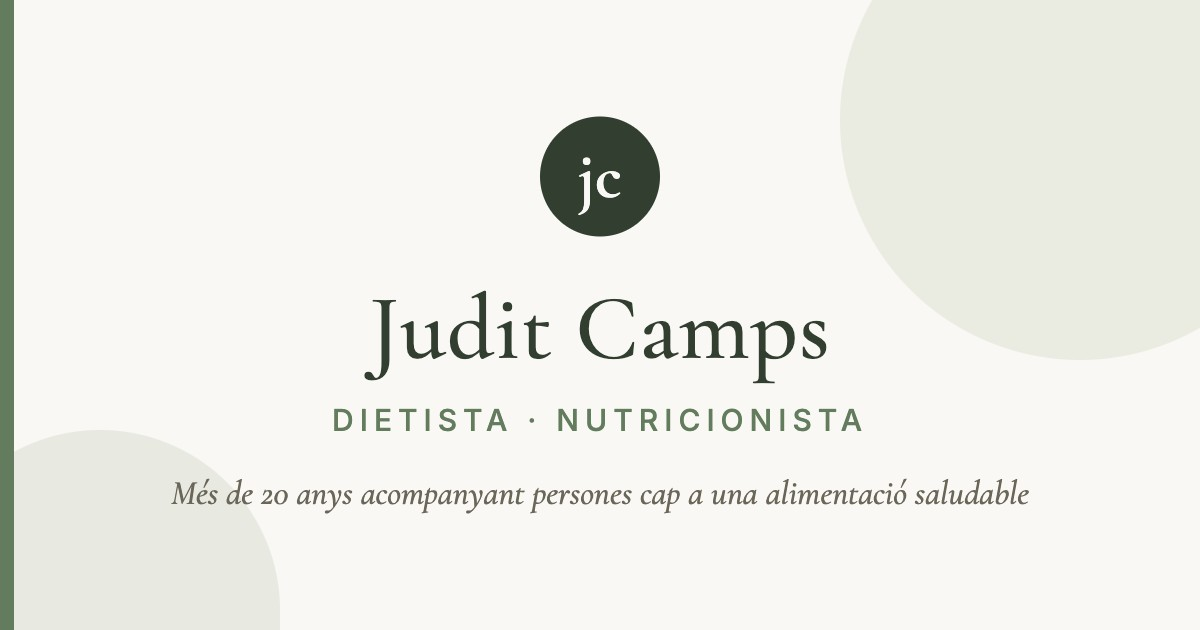
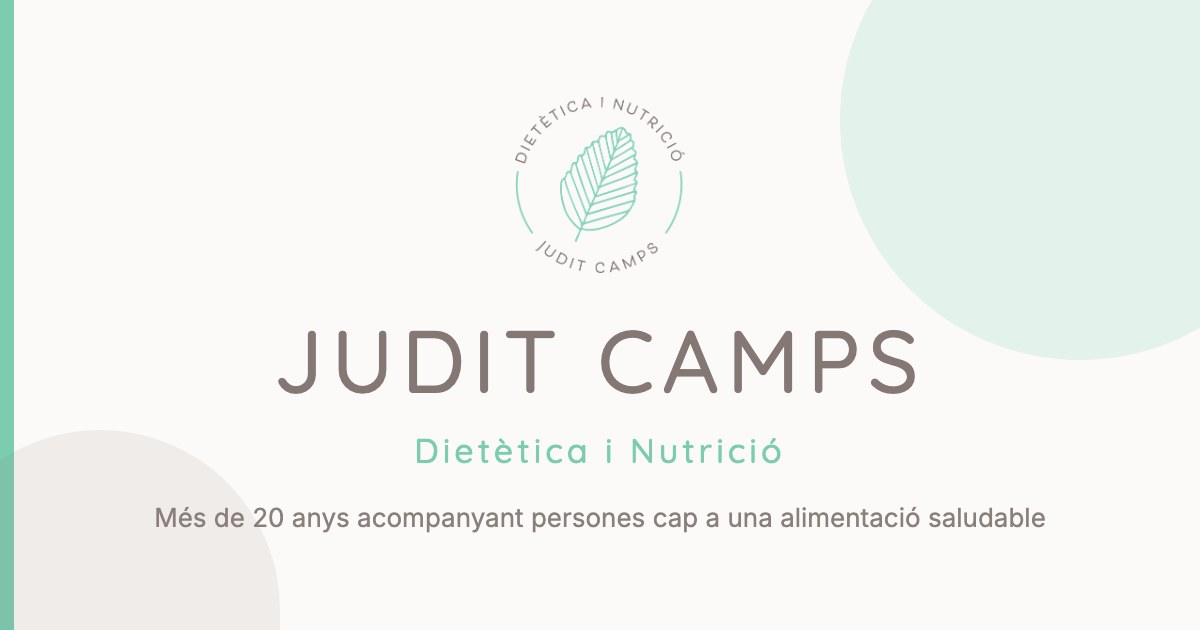
feat: identitat visual oficial de Judit Camps
- Logo oficial (wordmark) en PNG transparent al header de totes les pàgines
- Segell rodó amb fulla al footer
- Favicon SVG redibuixat fidel al segell de marca
- Paleta nova: taupe #857774 + verd menta #7cccaf
- Tipografia de titulars: Quicksand (geomètrica arrodonida de marca)
- og-image regenerada amb la nova identitat

diff --git a/css/style.css b/css/style.css
@@ -1,20 +1,21 @@
 /* ============================================================
-   Judit Camps · Dietista i Nutricionista
-   Paleta: verds suaus + neutres càlids. Estil fi, modern, serè.
+   Judit Camps · Dietètica i Nutrició
+   Paleta oficial de marca: taupe #857774 + verd menta #7cccaf.
+   Tipografia de marca: geomètrica arrodonida (Quicksand).
    ============================================================ */
 
 :root {
-    --green-900: #2f3e2f;
-    --green-700: #41573f;
-    --green-500: #5a7d5a;
-    --green-300: #b7c9a8;
-    --cream: #faf8f3;
-    --sand: #f1ece1;
-    --ink: #33382f;
-    --muted: #6b7164;
+    --green-900: #5a4f4c;   /* taupe fosc (titulars) */
+    --green-700: #857774;   /* taupe de marca (text secundari, enllaços) */
+    --green-500: #4aa98c;   /* menta fosc (accents amb bon contrast) */
+    --green-300: #7cccaf;   /* menta de marca (decoració) */
+    --cream: #fbfaf8;
+    --sand: #f3efec;
+    --ink: #4a4341;
+    --muted: #8a7f7c;
     --radius: 14px;
-    --shadow: 0 10px 40px rgba(47, 62, 47, 0.08);
-    --font-display: "Cormorant Garamond", Georgia, serif;
+    --shadow: 0 10px 40px rgba(90, 79, 76, 0.08);
+    --font-display: "Quicksand", "Trebuchet MS", sans-serif;
     --font-body: "Inter", Helvetica, Arial, sans-serif;
 }
 
@@ -37,7 +38,7 @@ body {
 
 h1, h2, h3 { font-family: var(--font-display); font-weight: 500; color: var(--green-900); }
 h1 { font-size: clamp(2.6rem, 6vw, 4.2rem); line-height: 1.1; }
-h1 em { font-style: italic; color: var(--green-500); }
+h1 em { font-style: normal; color: var(--green-500); }
 h2 { font-size: clamp(1.9rem, 4vw, 2.6rem); margin-bottom: 1rem; }
 h3 { font-size: 1.35rem; margin-bottom: 0.5rem; }
 p { margin-bottom: 1rem; }
@@ -55,9 +56,9 @@ a { color: var(--green-700); }
 /* ---------- Header ---------- */
 .site-header {
     position: sticky; top: 0; z-index: 100;
-    background: rgba(250, 248, 243, 0.92);
+    background: rgba(251, 250, 248, 0.92);
     backdrop-filter: blur(10px);
-    border-bottom: 1px solid rgba(90, 125, 90, 0.12);
+    border-bottom: 1px solid rgba(124, 204, 175, 0.12);
 }
 .nav { display: flex; align-items: center; justify-content: space-between; padding: 14px 24px; }
 .brand img { display: block; height: 52px; width: auto; }
@@ -91,8 +92,8 @@ a { color: var(--green-700); }
 .hero {
     padding: 110px 0 130px;
     background:
-        radial-gradient(ellipse 70% 60% at 85% 10%, rgba(183, 201, 168, 0.35), transparent),
-        radial-gradient(ellipse 50% 50% at 10% 90%, rgba(241, 236, 225, 0.9), transparent),
+        radial-gradient(ellipse 70% 60% at 85% 10%, rgba(124, 204, 175, 0.25), transparent),
+        radial-gradient(ellipse 50% 50% at 10% 90%, rgba(243, 239, 236, 0.9), transparent),
         var(--cream);
     text-align: center;
 }
@@ -162,7 +163,7 @@ a { color: var(--green-700); }
 .contact-form textarea {
     width: 100%;
     padding: 12px 14px;
-    border: 1px solid #d8d4c8;
+    border: 1px solid #dcd6d2;
     border-radius: 8px;
     font-family: var(--font-body);
     font-size: 0.95rem;
@@ -213,7 +214,7 @@ a { color: var(--green-700); }
         flex-direction: column;
         background: var(--cream);
         padding: 20px;
-        border-bottom: 1px solid rgba(90, 125, 90, 0.15);
+        border-bottom: 1px solid rgba(124, 204, 175, 0.15);
     }
     .nav-links.open { display: flex; }
     .hero { padding: 70px 0 90px; }

diff --git a/index.html b/index.html
@@ -25,7 +25,7 @@
     <link rel="icon" type="image/svg+xml" href="assets/favicon.svg">
     <link rel="preconnect" href="https://fonts.googleapis.com">
     <link rel="preconnect" href="https://fonts.gstatic.com" crossorigin>
-    <link href="https://fonts.googleapis.com/css2?family=Cormorant+Garamond:ital,wght@0,400;0,500;0,600;1,400&family=Inter:wght@300;400;500;600&display=swap" rel="stylesheet">
+    <link href="https://fonts.googleapis.com/css2?family=Quicksand:wght@400;500;600&family=Inter:wght@300;400;500;600&display=swap" rel="stylesheet">
     <link rel="stylesheet" href="css/style.css">
 
     <!-- Structured data: professional profile for search engines and AI assistants -->
@@ -36,7 +36,7 @@
       "@id": "https://www.juditcamps.com/#business",
       "name": "Judit Camps · Dietista i Nutricionista",
       "url": "https://www.juditcamps.com/",
-      "logo": "https://www.juditcamps.com/assets/logo.svg",
+      "logo": "https://www.juditcamps.com/assets/logo.png",
       "image": "https://www.juditcamps.com/assets/og-image.jpg",
       "telephone": "+34660347743",
       "email": "info@juditcamps.com",
@@ -68,7 +68,7 @@
 <header class="site-header" id="top">
     <nav class="nav container" aria-label="Navegació principal">
         <a href="#top" class="brand">
-            <img src="assets/logo.svg" alt="Judit Camps, dietista i nutricionista" width="260" height="60">
+            <img src="assets/logo.png" alt="Judit Camps, dietètica i nutrició" width="260" height="57">
         </a>
         <button class="nav-toggle" aria-label="Obre el menú" aria-expanded="false">☰</button>
         <ul class="nav-links">
@@ -272,7 +272,7 @@
 
 <footer class="site-footer">
     <div class="container footer-inner">
-        <img src="assets/logo.svg" alt="" width="200" height="46">
+        <img src="assets/logo-badge.png" alt="" width="120" height="124">
         <nav aria-label="Enllaços legals">
             <a href="avis-legal.html">Avís legal</a> ·
             <a href="privadesa.html">Política de privadesa</a> ·

diff --git a/privadesa.html b/privadesa.html
@@ -6,13 +6,13 @@
     <title>Política de privadesa · Judit Camps</title>
     <meta name="robots" content="noindex, follow">
     <link rel="icon" type="image/svg+xml" href="assets/favicon.svg">
-    <link href="https://fonts.googleapis.com/css2?family=Cormorant+Garamond:wght@500&family=Inter:wght@300;500&display=swap" rel="stylesheet">
+    <link href="https://fonts.googleapis.com/css2?family=Quicksand:wght@500;600&family=Inter:wght@300;500&display=swap" rel="stylesheet">
     <link rel="stylesheet" href="css/style.css">
 </head>
 <body>
 <header class="site-header">
     <nav class="nav container"><a href="index.html" class="brand">
-        <img src="assets/logo.svg" alt="Judit Camps" width="260" height="60"></a></nav>
+        <img src="assets/logo.png" alt="Judit Camps" width="260" height="57"></a></nav>
 </header>
 <main class="section"><div class="container narrow">
     <h1>Política de privadesa</h1>

diff --git a/cookies.html b/cookies.html
@@ -6,13 +6,13 @@
     <title>Política de cookies · Judit Camps</title>
     <meta name="robots" content="noindex, follow">
     <link rel="icon" type="image/svg+xml" href="assets/favicon.svg">
-    <link href="https://fonts.googleapis.com/css2?family=Cormorant+Garamond:wght@500&family=Inter:wght@300;500&display=swap" rel="stylesheet">
+    <link href="https://fonts.googleapis.com/css2?family=Quicksand:wght@500;600&family=Inter:wght@300;500&display=swap" rel="stylesheet">
     <link rel="stylesheet" href="css/style.css">
 </head>
 <body>
 <header class="site-header">
     <nav class="nav container"><a href="index.html" class="brand">
-        <img src="assets/logo.svg" alt="Judit Camps" width="260" height="60"></a></nav>
+        <img src="assets/logo.png" alt="Judit Camps" width="260" height="57"></a></nav>
 </header>
 <main class="section"><div class="container narrow">
     <h1>Política de cookies</h1>

diff --git a/avis-legal.html b/avis-legal.html
@@ -6,13 +6,13 @@
     <title>Avís legal · Judit Camps</title>
     <meta name="robots" content="noindex, follow">
     <link rel="icon" type="image/svg+xml" href="assets/favicon.svg">
-    <link href="https://fonts.googleapis.com/css2?family=Cormorant+Garamond:wght@500&family=Inter:wght@300;500&display=swap" rel="stylesheet">
+    <link href="https://fonts.googleapis.com/css2?family=Quicksand:wght@500;600&family=Inter:wght@300;500&display=swap" rel="stylesheet">
     <link rel="stylesheet" href="css/style.css">
 </head>
 <body>
 <header class="site-header">
     <nav class="nav container"><a href="index.html" class="brand">
-        <img src="assets/logo.svg" alt="Judit Camps" width="260" height="60"></a></nav>
+        <img src="assets/logo.png" alt="Judit Camps" width="260" height="57"></a></nav>
 </header>
 <main class="section"><div class="container narrow">
     <h1>Avís legal</h1>
